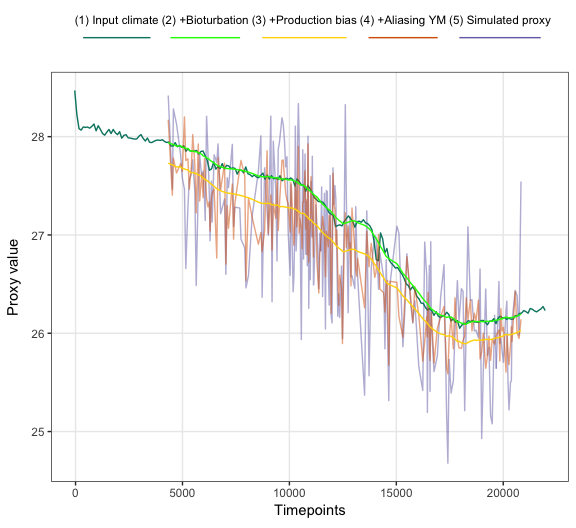
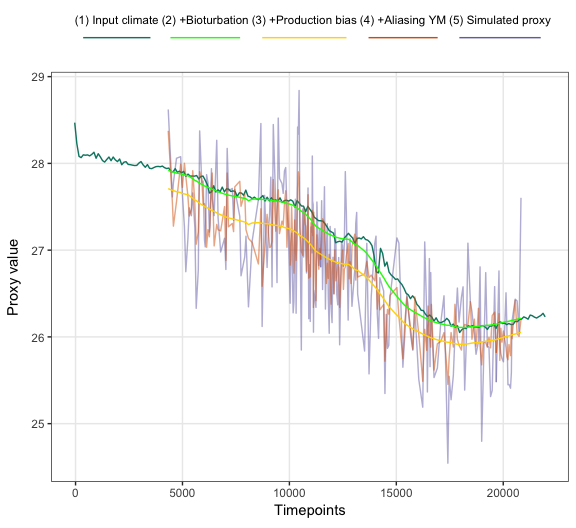
improve documentation and remove unused PFM output like smooting.width and sed.acc.rate

diff --git a/readme.md b/readme.md
@@ -156,16 +156,16 @@ PFM$everything
 ## # A tibble: 9,725 x 9
 ##    timepoints replicate             stage    value           label
 ##         <dbl>     <dbl>             <chr>    <dbl>           <chr>
-##  1       4334         1 proxy.bt.sb.sampY 27.72916 (4) +Aliasing Y
-##  2       4527         1 proxy.bt.sb.sampY 27.69545 (4) +Aliasing Y
-##  3       4576         1 proxy.bt.sb.sampY 27.71834 (4) +Aliasing Y
-##  4       4721         1 proxy.bt.sb.sampY 27.68866 (4) +Aliasing Y
-##  5       4914         1 proxy.bt.sb.sampY 27.72985 (4) +Aliasing Y
-##  6       4994         1 proxy.bt.sb.sampY 27.63903 (4) +Aliasing Y
-##  7       5092         1 proxy.bt.sb.sampY 27.63409 (4) +Aliasing Y
-##  8       5156         1 proxy.bt.sb.sampY 27.61887 (4) +Aliasing Y
-##  9       5254         1 proxy.bt.sb.sampY 27.69607 (4) +Aliasing Y
-## 10       5318         1 proxy.bt.sb.sampY 27.62952 (4) +Aliasing Y
+##  1       4334         1 proxy.bt.sb.sampY 27.73002 (4) +Aliasing Y
+##  2       4527         1 proxy.bt.sb.sampY 27.69361 (4) +Aliasing Y
+##  3       4576         1 proxy.bt.sb.sampY 27.72911 (4) +Aliasing Y
+##  4       4721         1 proxy.bt.sb.sampY 27.69777 (4) +Aliasing Y
+##  5       4914         1 proxy.bt.sb.sampY 27.62979 (4) +Aliasing Y
+##  6       4994         1 proxy.bt.sb.sampY 27.63200 (4) +Aliasing Y
+##  7       5092         1 proxy.bt.sb.sampY 27.62587 (4) +Aliasing Y
+##  8       5156         1 proxy.bt.sb.sampY 27.66293 (4) +Aliasing Y
+##  9       5254         1 proxy.bt.sb.sampY 27.68432 (4) +Aliasing Y
+## 10       5318         1 proxy.bt.sb.sampY 27.67379 (4) +Aliasing Y
 ## # ... with 9,715 more rows, and 4 more variables: description <chr>,
 ## #   plot.order <dbl>, plotting.colour <chr>, plotting.alpha <dbl>
 ```
